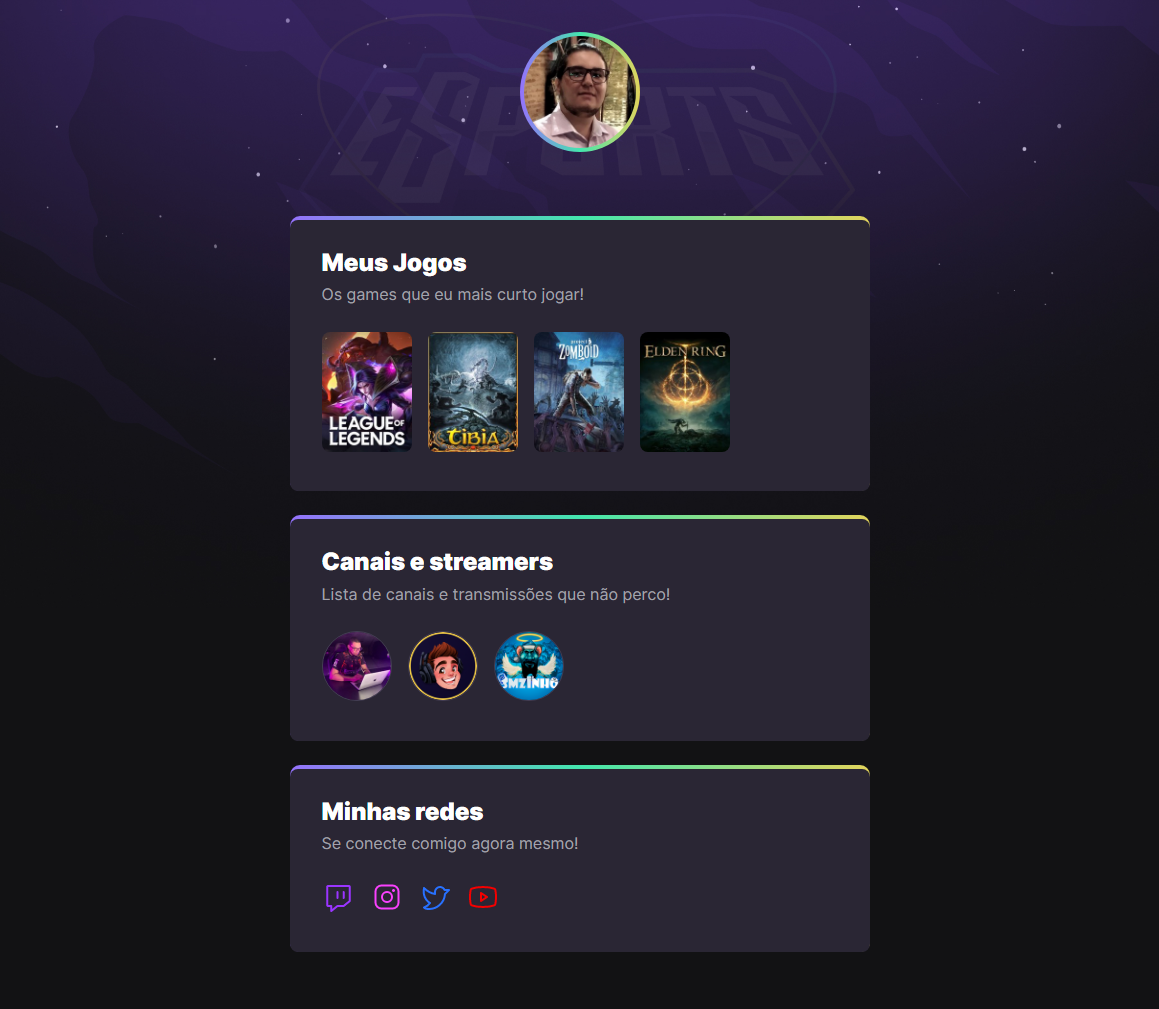
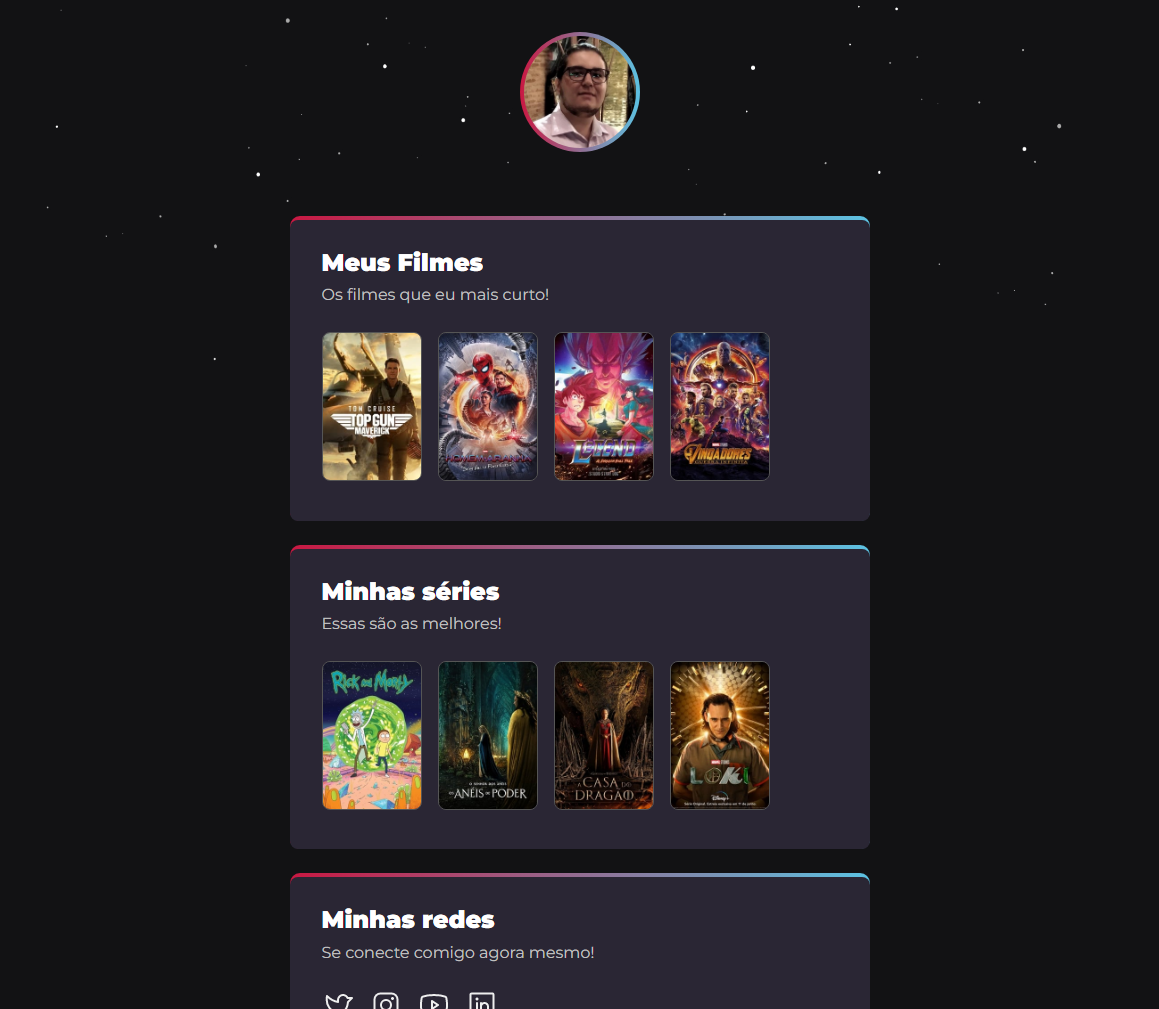
Create a new project in NLW event

diff --git a/index.html b/index.html
@@ -4,7 +4,7 @@
 
         <link rel="preconnect" href="https://fonts.googleapis.com">
         <link rel="preconnect" href="https://fonts.gstatic.com" crossorigin>
-        <link href="https://fonts.googleapis.com/css2?family=Inter:wght@400;900&display=swap" rel="stylesheet">
+        <link href="https://fonts.googleapis.com/css2?family=Montserrat:wght@400;900&display=swap" rel="stylesheet">
 
         <meta charset="UTF-8">
         <meta name="viewport" content="width=device-width, initial-scale=1.0">
@@ -25,38 +25,38 @@
 
             <section>
                 <div>
-                    <h2>Meus Jogos</h2>
-                    <p>Os games que eu mais curto jogar!</p>
+                    <h2>Meus Filmes</h2>
+                    <p>Os filmes que eu mais curto!</p>
 
-                    <ul class="games-list">
+                    <ul class="movies-list">
                         <li>
                             <a
                             target="_blank"
-                            href="https://www.twitch.tv/directory/game/League%20of%20Legends">
-                                <img src="https://static-cdn.jtvnw.net/ttv-boxart/21779-188x250.jpg" alt="Imagem do jogo League of Legends">
+                            href="https://www.themoviedb.org/movie/361743">
+                                <img src="https://www.themoviedb.org/t/p/w220_and_h330_face/jTrXwK56EoLHHxfBkpwGdfmy2uh.jpg" alt="Imagem do filme Top Gun">
                             </a>
                         </li>
 
                         <li>
                             <a
                             target="_blank"
-                            href="https://www.twitch.tv/directory/game/Tibia">
-                                <img src="https://static-cdn.jtvnw.net/ttv-boxart/19619_IGDB-188x250.jpg" alt="Imagem do jogo Grand Theft Auto 5">
+                            href="https://www.themoviedb.org/movie/634649">
+                                <img src="https://www.themoviedb.org/t/p/w220_and_h330_face/fVzXp3NwovUlLe7fvoRynCmBPNc.jpg" alt="Imagem do filme Homem-Aranha Sem Volta Para Casa">
                             </a>
                         </li>
 
                         <li>
                             <a
                             target="_blank"
-                            href="https://www.twitch.tv/directory/game/Project%20Zomboid">
-                                <img src="https://static-cdn.jtvnw.net/ttv-boxart/31339_IGDB-188x250.jpg" alt="Imagem do jogo Project Zomboid">
+                            href="https://www.themoviedb.org/movie/997647">
+                                <img src="https://www.themoviedb.org/t/p/w220_and_h330_face/58T9B4jiOTyJa6fhsdNoUWKCfpz.jpg" alt="Imagem do filme Legend A Dragon Ball Tale">
                             </a>
                         </li>
                         <li>
                             <a
                             target="_blank"
-                            href="https://www.twitch.tv/directory/game/Elden%20Ring">
-                                <img src="https://static-cdn.jtvnw.net/ttv-boxart/512953_IGDB-188x250.jpg" alt="Imagem do jogo Project Zomboid">
+                            href="https://www.themoviedb.org/movie/299536">
+                                <img src="https://www.themoviedb.org/t/p/w220_and_h330_face/89QTZmn34iwXYeCpVxhC9UrT8sX.jpg" alt="Imagem do filme Vingadores Guerra Infinita">
                             </a>
                         </li>
                     </ul>
@@ -65,31 +65,38 @@
 
             <section>
                 <div>
-                    <h2>Canais e streamers</h2>
-                    <p>Lista de canais e transmissões que não perco!</p>
+                    <h2>Minhas séries</h2>
+                    <p>Essas são as melhores!</p>
 
-                    <ul class="channel-list">
+                    <ul class="series-list">
                         <li>
                             <a
                             target="_blank"
-                            href="https://www.twitch.tv/maykbrito">
-                                <img src="https://static-cdn.jtvnw.net/jtv_user_pictures/9ce11a2b-ec84-44b1-9c76-b8d29df5fef0-profile_image-150x150.png" alt="Imagem de Mayk Brito">
+                            href="https://www.themoviedb.org/tv/60625">
+                                <img src="https://www.themoviedb.org/t/p/w220_and_h330_face/8kOWDBK6XlPUzckuHDo3wwVRFwt.jpg" alt="Imagem da série Rick and Morty">
                             </a>
                         </li>
 
                         <li>
                             <a
                             target="_blank"
-                            href="https://www.twitch.tv/alanzoka">
-                                <img src="https://static-cdn.jtvnw.net/jtv_user_pictures/15cec952-c1ba-4ff8-a79c-53c2fa5bd269-profile_image-150x150.png" alt="Imagem de Alanzoka">
+                            href="https://www.themoviedb.org/tv/84773">
+                                <img src="https://www.themoviedb.org/t/p/w220_and_h330_face/z9a3b7DePtdo2E8NzyPwoGHGsYk.jpg" alt="Imagem da série Os Anéis do Poder">
                             </a>
                         </li>
                         
                         <li>
                             <a
                             target="_blank"
-                            href="https://www.twitch.tv/smzinho">
-                                <img src="https://static-cdn.jtvnw.net/jtv_user_pictures/33aba100-11ff-4207-aff3-ef848ddbb7e8-profile_image-150x150.png" alt="Imagem de Smzinho">
+                            href="https://www.themoviedb.org/tv/94997">
+                                <img src="https://www.themoviedb.org/t/p/w220_and_h330_face/ruHPkmmAwBTCzNXtHot18rs6ctN.jpg" alt="Imagem da série A Casa do Dragão">
+                            </a>
+                        </li>
+                        <li>
+                            <a
+                            target="_blank"
+                            href="https://www.themoviedb.org/tv/84958">
+                                <img src="https://www.themoviedb.org/t/p/w220_and_h330_face/ukR0MkCQE6IylzBPd61txJi1L3E.jpg" alt="Imagem da série Loki">
                             </a>
                         </li>
                     </ul>
@@ -105,12 +112,10 @@
                         <li>
                             <a
                             target="_blank"
-                            href="https://www.twitch.tv/maykbrito">
-                                <svg width="33" height="32" viewBox="0 0 33 32" fill="none" xmlns="http://www.w3.org/2000/svg">
-                                    <path d="M21.2824 25H15.8426C15.6011 25.0001 15.3678 25.0844 15.1852 25.2375L9.28125 30V25H6.1875C5.914 25 5.65169 24.8946 5.4583 24.7071C5.2649 24.5196 5.15625 24.2652 5.15625 24V6C5.15625 5.73478 5.2649 5.48043 5.4583 5.29289C5.65169 5.10536 5.914 5 6.1875 5H26.8125C27.086 5 27.3483 5.10536 27.5417 5.29289C27.7351 5.48043 27.8438 5.73478 27.8438 6V19.5375C27.8417 19.6832 27.8072 19.8267 27.7427 19.9583C27.6782 20.0899 27.5851 20.2065 27.4699 20.3L21.9398 24.7625C21.7572 24.9156 21.5239 24.9999 21.2824 25V25Z" stroke="#9A35FF" stroke-width="2" stroke-linecap="round" stroke-linejoin="round"/>
-                                    <path d="M21.6562 11V17" stroke="#9A35FF" stroke-width="2" stroke-linecap="round" stroke-linejoin="round"/>
-                                    <path d="M15.4688 11V17" stroke="#9A35FF" stroke-width="2" stroke-linecap="round" stroke-linejoin="round"/>
-                                </svg>                                
+                            href="https://twitter.com/leonardo_tenkai">
+                                <svg width="32" height="32" viewBox="0 0 32 32" fill="none" xmlns="http://www.w3.org/2000/svg">
+                                    <path d="M16 11C16 8.25003 18.3125 5.96253 21.0625 6.00003C22.0256 6.01115 22.9649 6.30018 23.7676 6.83237C24.5704 7.36457 25.2023 8.11728 25.5875 9.00003H30L25.9625 13.0375C25.7019 17.0932 23.9066 20.8975 20.9415 23.6769C17.9764 26.4562 14.0641 28.002 10 28C6 28 5 26.5 5 26.5C5 26.5 9 25 11 22C11 22 3 18 5 7.00003C5 7.00003 10 12 16 13V11Z" stroke="#EEEEEE" stroke-width="2" stroke-linecap="round" stroke-linejoin="round"/>
+                                </svg>                              
                             </a>
                         </li>
 
@@ -119,9 +124,9 @@
                             target="_blank"
                             href="https://www.instagram.com/campos.leonardo01/">
                                 <svg width="32" height="32" viewBox="0 0 32 32" fill="none" xmlns="http://www.w3.org/2000/svg">
-                                    <path d="M16 21C18.7614 21 21 18.7614 21 16C21 13.2386 18.7614 11 16 11C13.2386 11 11 13.2386 11 16C11 18.7614 13.2386 21 16 21Z" stroke="#FA41FE" stroke-width="2" stroke-miterlimit="10"/>
-                                    <path d="M21.5 4.5H10.5C7.18629 4.5 4.5 7.18629 4.5 10.5V21.5C4.5 24.8137 7.18629 27.5 10.5 27.5H21.5C24.8137 27.5 27.5 24.8137 27.5 21.5V10.5C27.5 7.18629 24.8137 4.5 21.5 4.5Z" stroke="#FA41FE" stroke-width="2" stroke-linecap="round" stroke-linejoin="round"/>
-                                    <path d="M22.5 11C23.3284 11 24 10.3284 24 9.5C24 8.67157 23.3284 8 22.5 8C21.6716 8 21 8.67157 21 9.5C21 10.3284 21.6716 11 22.5 11Z" fill="#FA41FE"/>
+                                    <path d="M16 21C18.7614 21 21 18.7614 21 16C21 13.2386 18.7614 11 16 11C13.2386 11 11 13.2386 11 16C11 18.7614 13.2386 21 16 21Z" stroke="#EEEEEE" stroke-width="2" stroke-miterlimit="10"/>
+                                    <path d="M21.5 4.5H10.5C7.18629 4.5 4.5 7.18629 4.5 10.5V21.5C4.5 24.8137 7.18629 27.5 10.5 27.5H21.5C24.8137 27.5 27.5 24.8137 27.5 21.5V10.5C27.5 7.18629 24.8137 4.5 21.5 4.5Z" stroke="#EEEEEE" stroke-width="2" stroke-linecap="round" stroke-linejoin="round"/>
+                                    <path d="M22.5 11C23.3284 11 24 10.3284 24 9.5C24 8.67157 23.3284 8 22.5 8C21.6716 8 21 8.67157 21 9.5C21 10.3284 21.6716 11 22.5 11Z" fill="#EEEEEE"/>
                                 </svg>
                             </a>
                         </li>
@@ -129,20 +134,24 @@
                         <li>
                             <a
                             target="_blank"
-                            href="https://twitter.com/leonardo_tenkai">
+                            href="https://www.youtube.com/maykbrito">
                                 <svg width="32" height="32" viewBox="0 0 32 32" fill="none" xmlns="http://www.w3.org/2000/svg">
-                                    <path d="M16 11C16 8.25003 18.3125 5.96253 21.0625 6.00003C22.0256 6.01115 22.9649 6.30018 23.7676 6.83237C24.5704 7.36457 25.2023 8.11728 25.5875 9.00003H30L25.9625 13.0375C25.7019 17.0932 23.9066 20.8975 20.9415 23.6769C17.9764 26.4562 14.0641 28.002 10 28C6 28 5 26.5 5 26.5C5 26.5 9 25 11 22C11 22 3 18 5 7.00003C5 7.00003 10 12 16 13V11Z" stroke="#2871FF" stroke-width="2" stroke-linecap="round" stroke-linejoin="round"/>
-                                </svg>                               
+                                    <path d="M20 16L14 12V20L20 16Z" stroke="#EEEEEE" stroke-width="2" stroke-linecap="round" stroke-linejoin="round"/>
+                                    <path d="M3 16C3 19.725 3.3875 21.9 3.675 23.025C3.75427 23.3302 3.90418 23.6126 4.11262 23.8493C4.32106 24.0859 4.58221 24.2703 4.875 24.3875C9.0625 25.9875 16 25.95 16 25.95C16 25.95 22.9375 25.9875 27.125 24.3875C27.4178 24.2703 27.6789 24.0859 27.8874 23.8493C28.0958 23.6126 28.2457 23.3302 28.325 23.025C28.6125 21.9 29 19.725 29 16C29 12.275 28.6125 10.1 28.325 8.975C28.2457 8.66975 28.0958 8.38741 27.8874 8.15074C27.6789 7.91407 27.4178 7.7297 27.125 7.6125C22.9375 6.0125 16 6.05 16 6.05C16 6.05 9.0625 6.0125 4.875 7.6125C4.58221 7.7297 4.32106 7.91407 4.11262 8.15074C3.90418 8.38741 3.75427 8.66975 3.675 8.975C3.3875 10.1 3 12.275 3 16Z" stroke="#EEEEEE" stroke-width="2" stroke-linecap="round" stroke-linejoin="round"/>
+                                </svg>                                                              
                             </a>
                         </li>
                         <li>
                             <a
                             target="_blank"
-                            href="https://www.youtube.com/maykbrito">
+                            href="https://www.linkedin.com/in/leonardo-campos-510291110">
                                 <svg width="32" height="32" viewBox="0 0 32 32" fill="none" xmlns="http://www.w3.org/2000/svg">
-                                    <path d="M20 16L14 12V20L20 16Z" stroke="#F40000" stroke-width="2" stroke-linecap="round" stroke-linejoin="round"/>
-                                    <path d="M3 16C3 19.725 3.3875 21.9 3.675 23.025C3.75427 23.3302 3.90418 23.6126 4.11262 23.8493C4.32106 24.0859 4.58221 24.2703 4.875 24.3875C9.0625 25.9875 16 25.95 16 25.95C16 25.95 22.9375 25.9875 27.125 24.3875C27.4178 24.2703 27.6789 24.0859 27.8874 23.8493C28.0958 23.6126 28.2457 23.3302 28.325 23.025C28.6125 21.9 29 19.725 29 16C29 12.275 28.6125 10.1 28.325 8.975C28.2457 8.66975 28.0958 8.38741 27.8874 8.15074C27.6789 7.91407 27.4178 7.7297 27.125 7.6125C22.9375 6.0125 16 6.05 16 6.05C16 6.05 9.0625 6.0125 4.875 7.6125C4.58221 7.7297 4.32106 7.91407 4.11262 8.15074C3.90418 8.38741 3.75427 8.66975 3.675 8.975C3.3875 10.1 3 12.275 3 16Z" stroke="#F40000" stroke-width="2" stroke-linecap="round" stroke-linejoin="round"/>
-                                </svg>  
+                                    <path d="M26.5 4.5H5.5C4.94772 4.5 4.5 4.94772 4.5 5.5V26.5C4.5 27.0523 4.94772 27.5 5.5 27.5H26.5C27.0523 27.5 27.5 27.0523 27.5 26.5V5.5C27.5 4.94772 27.0523 4.5 26.5 4.5Z" stroke="#EEEEEE" stroke-width="2" stroke-linecap="round" stroke-linejoin="round"/>
+                                    <path d="M15 14V22" stroke="#EEEEEE" stroke-width="2" stroke-linecap="round" stroke-linejoin="round"/>
+                                    <path d="M11 14V22" stroke="#EEEEEE" stroke-width="2" stroke-linecap="round" stroke-linejoin="round"/>
+                                    <path d="M15 17.5C15 16.5717 15.3687 15.6815 16.0251 15.0251C16.6815 14.3687 17.5717 14 18.5 14C19.4283 14 20.3185 14.3687 20.9749 15.0251C21.6313 15.6815 22 16.5717 22 17.5V22" stroke="#EEEEEE" stroke-width="2" stroke-linecap="round" stroke-linejoin="round"/>
+                                    <path d="M11 11.5C11.8284 11.5 12.5 10.8284 12.5 10C12.5 9.17157 11.8284 8.5 11 8.5C10.1716 8.5 9.5 9.17157 9.5 10C9.5 10.8284 10.1716 11.5 11 11.5Z" fill="#EEEEEE"/>
+                                </svg>                                 
                             </a>
                         </li>
                     </ul>

diff --git a/styles.css b/styles.css
@@ -17,7 +17,7 @@ body{
 }
 
 body * {
-    font-family: 'Inter', sans-serif;
+    font-family: 'Montserrat', sans-serif;
     line-height: 160%;
 }
 
@@ -29,7 +29,7 @@ header{
 header div{
     margin: auto;
     width: 120px;
-    background-image: linear-gradient(90deg, #9572FC 0%, #43E7AD 50.52%, #E2D45C 100%);
+    background-image: linear-gradient(90deg, #C91842 0%, #5CC2E2 100%);
     border-radius: 50%;
     display: flex;
     padding: 4px;
@@ -57,7 +57,7 @@ main {
 
 section{
     color: white;
-    background-image: linear-gradient(90deg, #9572FC 0%, #43E7AD 50.52%, #E2D45C 100%);
+    background-image: linear-gradient(90deg, #C91842 0%, #5CC2E2 100%);
     padding-top: 4px;
     border-radius: 10px;
 }
@@ -70,12 +70,17 @@ section div{
 }
 
 section h2{
-    letter-spacing: -0.47;
+    font-style: normal;
+    font-weight: 900;
+    font-size: 24px;
 }
 
 section p{
+    font-style: normal;
+    font-weight: 400;
+    font-size: 16px;
     letter-spacing: -0.18;
-    color: #A1A1AA;
+    color: #C1C1C1;
 }
 
 section ul {
@@ -93,15 +98,16 @@ section ul li:hover{
     transform: scale(1.1);
 }
 
-.games-list img{
-    width: 90px;
+.movies-list img{
+    width: 100px;
     border-radius: 8px;
+    border: 1px solid #555555;
 }
 
-.channel-list img{
-    border-radius: 50%;
-    width: 70px;
-    border: 1px solid #443E54;
+.series-list img{
+    width: 100px;
+    border-radius: 8px;
+    border: 1px solid #555555;
 }
 
 

diff --git a/README.md b/README.md
@@ -4,9 +4,9 @@
 
 > Trilha Explorer
 
-Projeto construido no evento Next Level Week da Rocketseat
+Projeto construido como exercicio extra no evento Next Level Week da Rocketseat
 
-[Clique aqui para acessar](https://leonardo-cg.github.io/nlw-esports-explorer/)
+[Clique aqui para acessar](https://leonardo-cg.github.io/nlw-esports-explorer-extra/)
 
 ## Tecnologias
 
